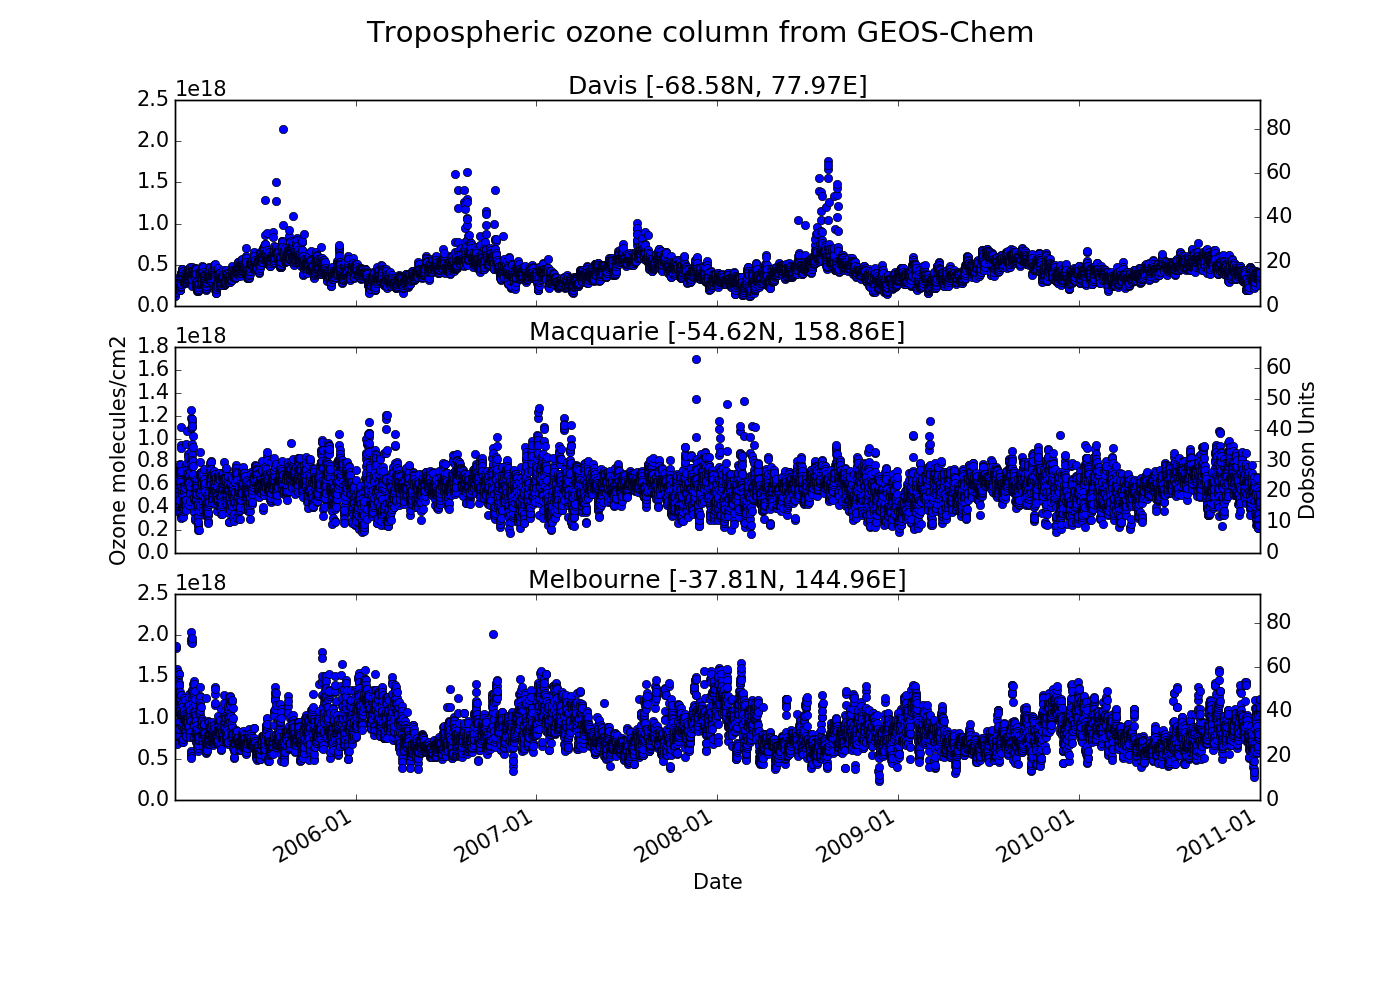
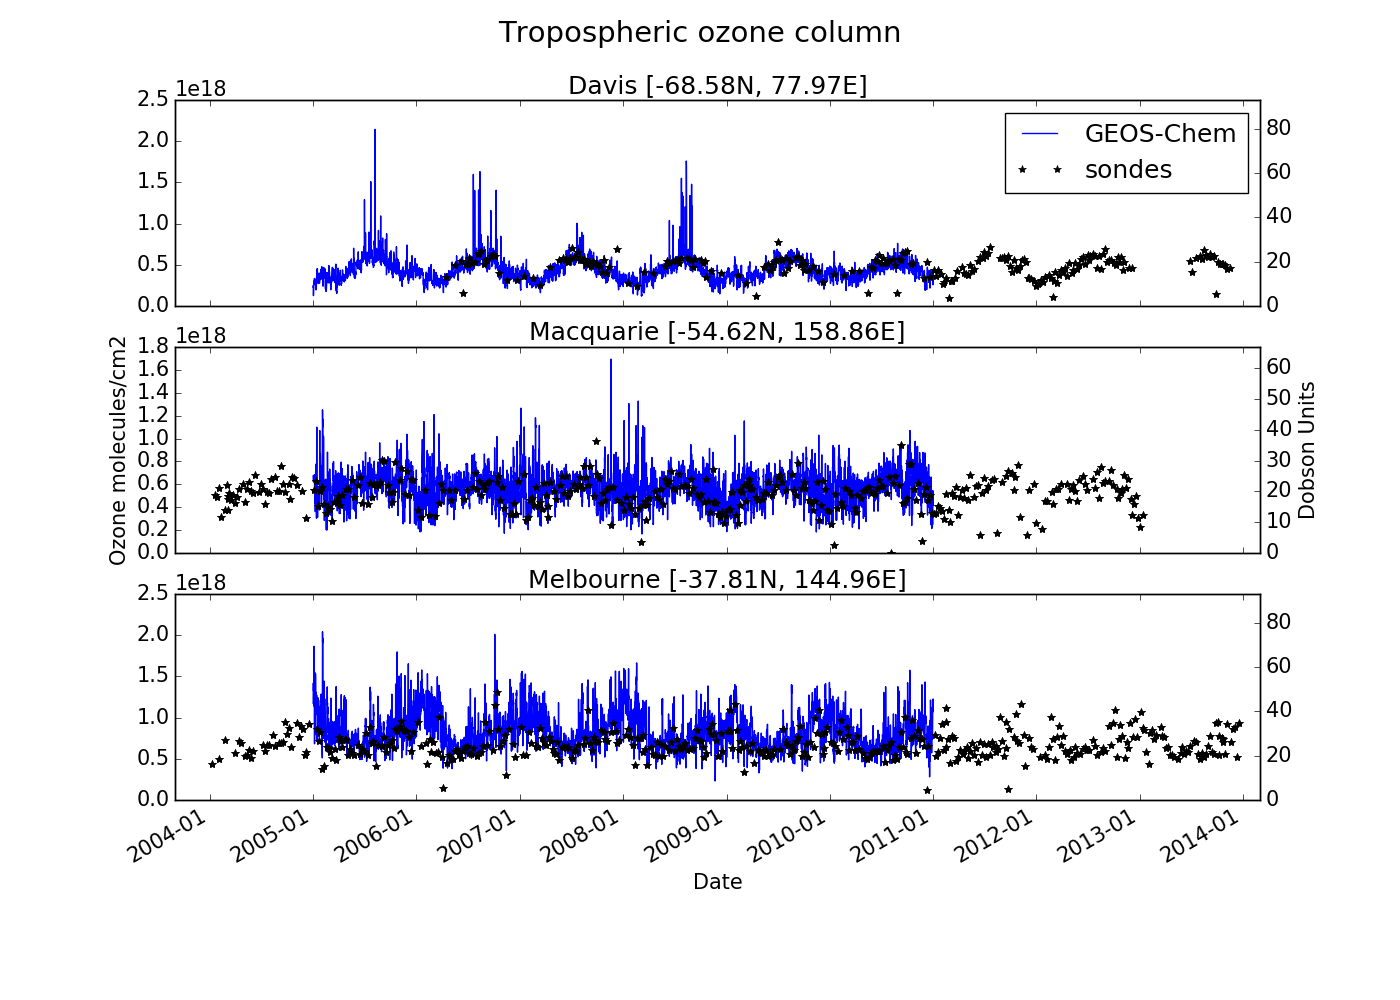
Updated sondes class to calculat tropospheric VCs time series plots both sondes and geos chem tropospheric VCs

diff --git a/examine_stations.py b/examine_stations.py
@@ -12,6 +12,7 @@ matplotlib.use('Agg')
 import matplotlib.pyplot as plt
 from matplotlib.dates import DateFormatter
 import numpy as np
+from datetime import datetime
 
 # Local module for reading sonde dataset
 import fio
@@ -22,8 +23,7 @@ matplotlib.rcParams.update({'font.size': 15})
 def event_profiles(station=2, data=None):
     '''
     Get O3, altitude, pressure profile at specific date.
-    Returns: O3, Altitude_mids, Pressure_mids, Pressure_edges
-    
+    Returns: O3, Altitude_mids, Pressure_mids, Pressure_edges  
     '''
     ## First read the station data
     if data is None:
@@ -80,7 +80,7 @@ def event_profiles(station=2, data=None):
 def time_series(outfile='images/StationSeries.png'):
     '''
     Plot timeseries for each station
-    TODO: Also show GC timeseries
+    TODO: Also show Sonde timeseries
     '''
     f3, f3axes = plt.subplots(3, 1, sharex=True, figsize=(14,10))
     f3axes[2].set_xlabel('Date')
@@ -88,21 +88,29 @@ def time_series(outfile='images/StationSeries.png'):
     
     # read the three files into a list
     files=[ fio.read_GC_station(f) for f in range(3) ]
+    o3sondes = [fio.read_site(s) for s in range(3) ]
     
     # for each station do this
-    for fh, f3ax, i in zip(files, f3axes, range(len(files))):
+    # gc, os, f3ax, i = files[0], o3sondes[0], f3axes[0], range(len(files))[0]
+    for gc, os, f3ax, i in zip(files, o3sondes, f3axes, range(len(files))):
         ## grab variables
         
         # Ozone data array [time] in molecules/cm2
-        data=fh['O3TropColumn']
+        data=gc['O3TropColumn']
+        sdata=np.array(os.tropvc)
         
         # create string title and turn tau's into matplotlib date numbers
-        station=fh['Station']
-        dates = fh['Date']
+        station=gc['Station']
+        dates = gc['Date']
+        sdates= np.array(os.dates)
         
         # plot time series for each station
-        f3ax.plot_date(dates, data[:])
+        f3ax.plot_date(dates, data[:], '-b', label='GEOS-Chem')
+        f3ax.plot_date(sdates, sdata[:], 'k*', label='sondes')
         f3ax.set_title(station)
+        if i == 0: 
+            f3ax.legend()
+            f3ax.set_xlim([datetime(2003,9,1),datetime(2014,3,1)])
         
         # add dobson units
         newax=f3ax.twinx()
@@ -110,8 +118,9 @@ def time_series(outfile='images/StationSeries.png'):
         newylim= [1/2.69e16 * oldlim for oldlim in f3ax.get_ylim()]
         newax.set_ylim(newylim)
     
+    
     # set plot titles
-    f3.suptitle('Tropospheric ozone column from GEOS-Chem',fontsize=21)
+    f3.suptitle('Tropospheric ozone column',fontsize=21)
     
     # set xticks nicely
     f3axes[2].xaxis.set_major_formatter( DateFormatter('%Y-%m') )
@@ -260,8 +269,8 @@ def monthly_profiles(hour=None):
 if __name__ == "__main__":
     print ("Running")
     
-    [event_profiles(s) for s in [0,1,2]]
-    #time_series()
+    #[event_profiles(s) for s in [0,1,2]]
+    time_series()
     #yearly_cycle()
     #monthly_profiles()
     #[monthly_profiles(hour=h) for h in [0,6,12,18] ]

diff --git a/fio.py b/fio.py
@@ -171,12 +171,15 @@ class sondes:
         self.tpo3 = [] #ozone tropopause
         self.tplr = [] # lapse rate tropopause
         self.tp = [] # minimum tropopause
+        self.tpinds = [] # index of min tropopause
+        self.tropvc = [] # tropospheric vertical column molecs/cm2
         
         # the following will have 2 dims: [dates,heights]
         self.press = 0 # heights(hPa) 
         self.gph = 0 # heights(m)
         self.o3pp = 0 # partial pressure(mPa)
         self.o3ppbv = 0 # ppbv[dates,heights]
+        self.o3dens = 0 # molecules/cm3
         self.rh = 0 # rel humidity
         self.temp = 0 # temperature(Celcius)
         # extras
@@ -311,6 +314,12 @@ class sondes:
         ## FINALLY
         # tp is minimum of lapse rate and ozone tropopause
         self.tp = np.minimum(self.tplr,self.tpo3).tolist()
+        for i in range(ns):
+            Z=np.array(self.gph[i,:])/1e3
+            if self.tp[i]  == -1:
+                self.tpinds.append(np.NaN)
+            else:
+                self.tpinds.append(np.where(Z == self.tp[i])[0][0])
 
     def get_seasonal(self):
         '''
@@ -345,6 +354,47 @@ class sondes:
             
     
         return(ndat)
+    
+    def _set_density(self):
+        '''
+        PV=nRT:
+        n/V [moles/cm3] = P/RT
+        n/V * N_av [molecules/cm3] = P*N_av/RT
+        n_O3 / V * N_av = P_O3 * N_av/RT
+        
+        P is pressure [hPa]
+        P_O3 = vmr * P
+        N_av = avocado's number [molecules/mole]
+        R = gas constant [ cm3 hPa / ( K mole ) ]
+        T = Temperature [K]
+        
+        Tropospheric VC= sum up to TP of (density * height)
+        '''
+        R=8.3144621e4 # [ cm3 hPa / K / mole ]
+        N_av=6.0221409e+23 # Avegadro
+        vmr=self.o3ppbv * 1e-9 # ppb to vmr
+        P = np.array(self.press) # hPa
+        T = np.array(self.temp) + 273.15 # celcius to Kelvin        
+        self.o3dens = vmr * P / R / T * N_av
+        
+        # vertical column profile [molecs/cm2] = dens[molecs/cm3]*height[cm]
+        Z=self.gph * 100
+        edgesshape=list(Z.shape)
+        edgesshape[1]+=1
+        Zedges=np.zeros(edgesshape)
+        Zedges[:,0] = Zedges[:,0] + self.alt*100
+        Zedges[:,1:-1] = (Z[:, 0:-1] + Z[:, 1:]) / 2.0
+        Zedges[:,-1] =Z[:,-1]
+        # height of each vertical level
+        Zheights= Zedges[:,1:]-Zedges[:, 0:-1] 
+        vcp = self.o3dens * Zheights
+        for i in range(len(self.dates)):
+            tpind=self.tpinds[i]
+            if tpind is np.NaN:
+                self.tropvc.append(np.NaN)
+            else:
+                # doesn't include tropopause layer
+                self.tropvc.append( np.nansum( vcp[i, 0:tpind] ) )
         
     def _set_events(self):
         '''
@@ -455,5 +505,6 @@ def read_site(site=0):
     snd.rh=sondesdata[4]
     snd.o3ppbv = snd.o3pp/snd.press*1.0e-5 *1.0e9
     snd._set_tps()
+    snd._set_density()
     snd._set_events()
     return(snd)
